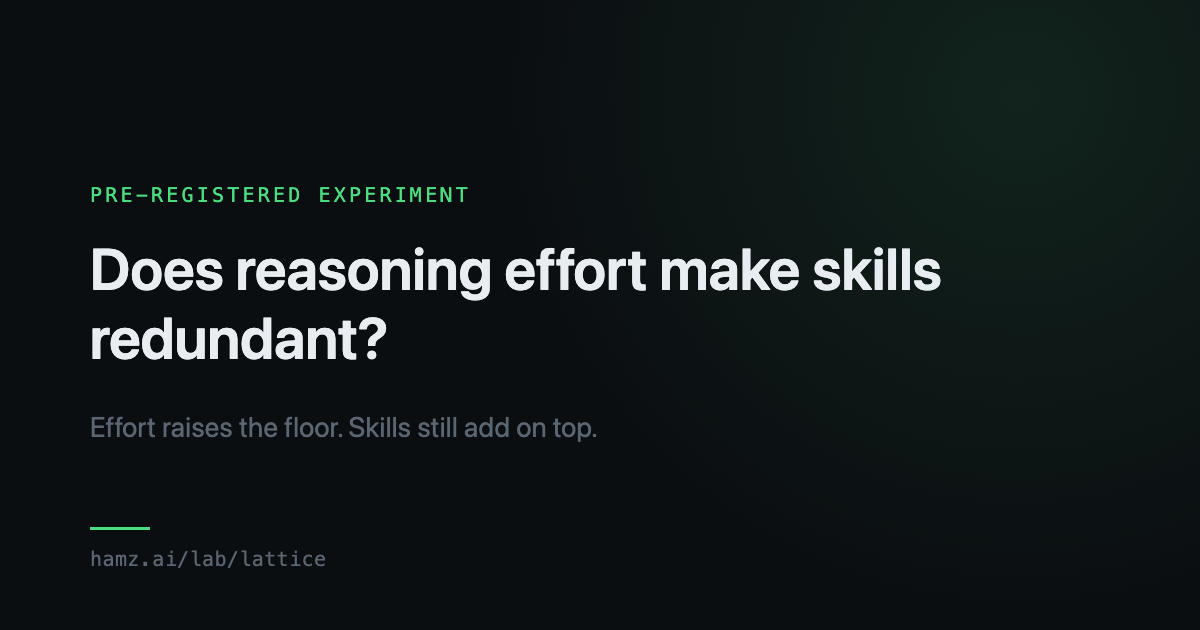
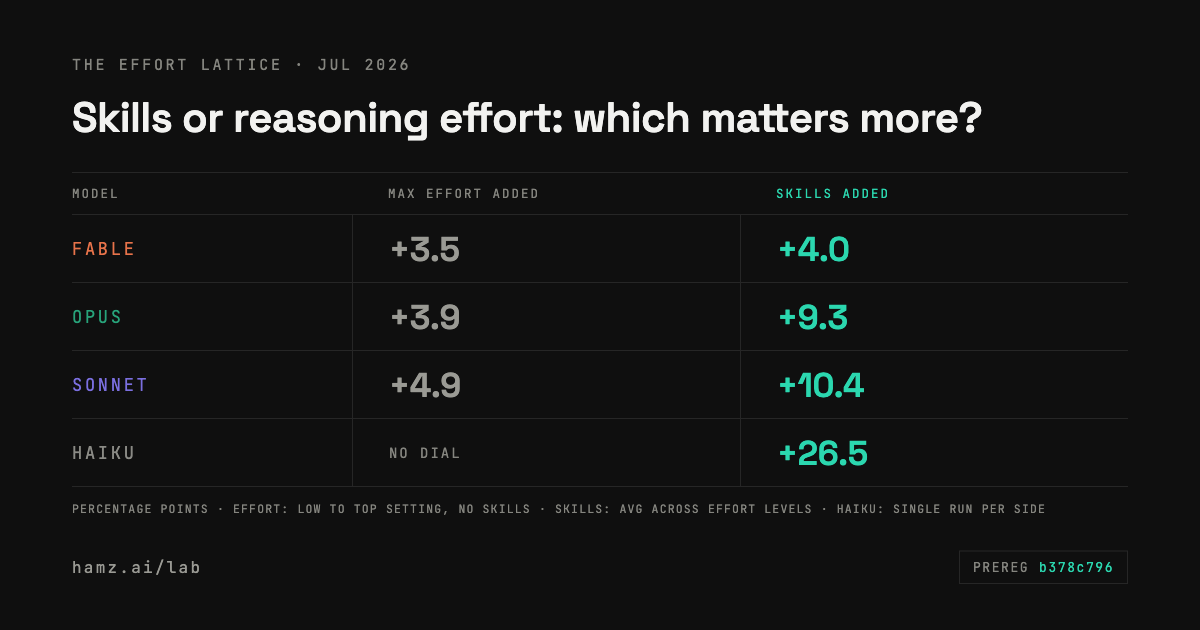
Part C + interview round: OG table image, lineage diagram, builder fills
- New og/lattice.png: the skills-vs-effort table (his pick, option 1) with
  twitter:card meta added on the lattice page.
- Lineage diagram (option A, horizontal flow) inlined on the evidence page's
  honest-accounting section, both themes, aria-labeled.
- Builder: Case playtesting card + 48-intakes shadow-lane stat fill the two
  grid gaps left by the coaching hide; 'Most leaders' paragraph shortened to
  a teaser (lab keeps the full version).
- Lattice: chart-subtitle addendum disclaimer trimmed (full statement stays
  in the table note and methodology spec).

diff --git a/lab/evidence/index.html b/lab/evidence/index.html
@@ -335,6 +335,102 @@
       <p>Two more bounds worth stating. Each task used one cold run and one loaded run, with one judge pass per pair, so the result is directional for this suite; it does not estimate run-to-run variance. And the eight tested skills were a selected subset of the 26 candidates, so the result should not be read as evidence that every candidate would have passed.
       </div>
       <p style="margin-top:32px">The released library is also not a straight copy of what was tested. The honest accounting: I consolidated the 26 repo-specific skills into 15 generalized skills (19 merged down to 9, including 2 that were largely absorbed into other merges; 6 carried over 1:1; 1 dropped as product-specific), plus 2 promoted from a separate personal library, for 17 total.</p>
+      <div style="margin:28px 0 8px">
+<svg class="lin-a" viewBox="0 0 960 376" xmlns="http://www.w3.org/2000/svg" font-family="'JetBrains Mono', monospace" role="img" aria-label="Skill lineage: 26 repo-specific skills consolidated into 15 generalized skills, plus 2 from a personal library, 17 portable skills released. The skills study tested 8 of the 26. The effort lattice tested the released 17.">
+  <style>
+    .lin-a {
+      --bg:#0F0F0F; --raised:#161616; --line:#262626;
+      --ink:#F2F2F0; --dim:#9A9A94; --faint:#85857F; --accent:#2BD7AF;
+    }
+    @media (prefers-color-scheme: light) {
+      .lin-a {
+        --bg:#F7F5F2; --raised:#FFFFFF; --line:#E3E0D9;
+        --ink:#191C1B; --dim:#5C5C56; --faint:#7A7A74; --accent:#05705B;
+      }
+    }
+    [data-theme="dark"] .lin-a {
+      --bg:#0F0F0F; --raised:#161616; --line:#262626;
+      --ink:#F2F2F0; --dim:#9A9A94; --faint:#85857F; --accent:#2BD7AF;
+    }
+    [data-theme="light"] .lin-a {
+      --bg:#F7F5F2; --raised:#FFFFFF; --line:#E3E0D9;
+      --ink:#191C1B; --dim:#5C5C56; --faint:#7A7A74; --accent:#05705B;
+    }
+    .lin-a .num { font-family:'Space Grotesk', sans-serif; font-weight:600; fill:var(--ink); }
+    .lin-a .num-ac { fill:var(--accent); }
+    .lin-a .lab { fill:var(--dim); letter-spacing:1.5px; }
+    .lin-a .lab-f { fill:var(--faint); letter-spacing:1px; }
+    .lin-a .lab-ac { fill:var(--accent); letter-spacing:1.5px; }
+    .lin-a .node { fill:var(--raised); stroke:var(--line); }
+    .lin-a .node-ac { fill:var(--raised); stroke:var(--accent); }
+    .lin-a .flow { stroke:var(--faint); fill:none; stroke-width:1; }
+    .lin-a .arrow { fill:var(--faint); }
+    .lin-a .dlink { stroke:var(--line); stroke-dasharray:3 4; }
+    .lin-a .callout { fill:none; stroke:var(--line); }
+  </style>
+
+  <rect x="0" y="0" width="960" height="376" fill="var(--bg)"/>
+
+  <text x="32" y="40" class="lab-f" font-size="11" letter-spacing="2">SKILL LINEAGE</text>
+
+  <!-- node 26 -->
+  <rect x="32" y="72" width="150" height="132" class="node"/>
+  <text x="107" y="140" class="num" font-size="44" text-anchor="middle">26</text>
+  <text x="107" y="170" class="lab" font-size="9" text-anchor="middle">REPO-SPECIFIC SKILLS</text>
+  <text x="107" y="188" class="lab-f" font-size="8" text-anchor="middle">FROM 2 CODEBASES</text>
+
+  <!-- branches -->
+  <line x1="182" y1="104" x2="462" y2="104" class="flow"/>
+  <polygon points="462,100 470,104 462,108" class="arrow"/>
+  <text x="192" y="94" class="lab" font-size="10">19 MERGED DOWN TO 9</text>
+  <text x="192" y="118" class="lab-f" font-size="8.5">INCL. 2 ABSORBED INTO OTHER MERGES</text>
+
+  <line x1="182" y1="152" x2="462" y2="152" class="flow"/>
+  <polygon points="462,148 470,152 462,156" class="arrow"/>
+  <text x="192" y="144" class="lab" font-size="10">6 CARRIED OVER 1:1</text>
+
+  <line x1="182" y1="192" x2="412" y2="192" class="flow"/>
+  <line x1="412" y1="186" x2="412" y2="198" class="flow"/>
+  <text x="192" y="184" class="lab-f" font-size="10">1 DROPPED &#183; PRODUCT-SPECIFIC</text>
+
+  <!-- node 15 -->
+  <rect x="470" y="72" width="150" height="132" class="node"/>
+  <text x="545" y="140" class="num" font-size="44" text-anchor="middle">15</text>
+  <text x="545" y="170" class="lab" font-size="9" text-anchor="middle">GENERALIZED SKILLS</text>
+  <text x="545" y="188" class="lab-f" font-size="8" text-anchor="middle">9 MERGED + 6 CARRIED</text>
+
+  <!-- +2 joining -->
+  <rect x="608" y="8" width="176" height="52" class="node"/>
+  <text x="630" y="42" class="num" font-size="22">+2</text>
+  <text x="672" y="30" class="lab" font-size="8.5">PROMOTED FROM A</text>
+  <text x="672" y="46" class="lab" font-size="8.5">PERSONAL LIBRARY</text>
+  <line x1="696" y1="60" x2="696" y2="148" class="flow"/>
+
+  <!-- connector 15 to 17 -->
+  <line x1="620" y1="148" x2="762" y2="148" class="flow"/>
+  <polygon points="762,144 770,148 762,152" class="arrow"/>
+
+  <!-- node 17 -->
+  <rect x="770" y="72" width="158" height="132" class="node-ac"/>
+  <text x="849" y="140" class="num num-ac" font-size="46" text-anchor="middle">17</text>
+  <text x="849" y="170" class="lab" font-size="9" text-anchor="middle">PORTABLE SKILLS</text>
+  <text x="849" y="184" class="lab" font-size="9" text-anchor="middle">RELEASED</text>
+
+  <!-- study callouts -->
+  <line x1="107" y1="204" x2="107" y2="252" class="dlink"/>
+  <rect x="32" y="252" width="352" height="88" class="callout"/>
+  <text x="52" y="280" class="lab-ac" font-size="9">THE SKILLS STUDY &#183; JUL 2026</text>
+  <text x="52" y="302" class="lab" font-size="10">A/B TESTED 8 OF THE 26</text>
+  <text x="52" y="320" class="lab-f" font-size="8.5">50 MUST-HITS: 26/50 COLD, 46/50 WITH SKILLS</text>
+
+  <line x1="849" y1="204" x2="849" y2="252" class="dlink"/>
+  <rect x="576" y="252" width="352" height="88" class="callout"/>
+  <text x="596" y="280" class="lab-ac" font-size="9">THE EFFORT LATTICE &#183; JUL 2026</text>
+  <text x="596" y="302" class="lab" font-size="10">TESTED THE RELEASED 17 AS SHIPPED</text>
+  <text x="596" y="320" class="lab-f" font-size="8.5">16 CONDITIONS &#183; 2,652 MARKS JUDGED BLIND</text>
+</svg>
+
+</div>
       <p>That has a consequence worth saying outright. 5 of the 17 released skills trace to A/B-measured sources. The measured deltas attach to the source skills as tested in their home repos, and the released rewrites carry the lineage, not a fresh measurement.</p>
     </div>
   </section>

diff --git a/builder/index.html b/builder/index.html
@@ -260,7 +260,7 @@
       <div class="fcard featured">
         <div class="tag">field guide &rarr;</div>
         <h3><a href="https://www.hamz.ai/designing-agentic-ai/">Designing agentic systems</a></h3>
-        <p>Most leaders meet agentic AI as something to bolt onto the workflow they already run, a faster version of today's process. The bigger move is to redesign the shape of the work around what agents are good at, and that is where the gains compound. What makes it doable is that the shapes you would redesign into are not exotic. They are the ones your organization already runs on, and the most interesting ones might be the shapes it never could.</p>
+        <p>The bigger move with agentic AI is to redesign the shape of the work around what agents are good at, and that is where the gains compound. The field guide shows the shapes to redesign into.</p>
         <p>Four questions, in order: How far do we go? How many agents? What blocks what? Who needs what context?</p>
         <div class="card-links">
           <a href="https://www.hamz.ai/designing-agentic-ai/">Read it &rarr;</a>
@@ -346,6 +346,15 @@
           </div>
         </div>
 
+        <div class="fcard">
+          <div class="tag">teaching</div>
+          <h3><a href="https://www.hamz.ai/case-playtesting/">Case playtesting</a></h3>
+          <p>Before a graduate case draft went in front of real people, I ran it past a simulated room: seventeen persona agents across three model tiers, each voting blind before any discussion.</p>
+          <div class="card-links">
+            <a href="https://www.hamz.ai/case-playtesting/">See the room &rarr;</a>
+          </div>
+        </div>
+
       </div>
     </div>
   </section>
@@ -361,6 +370,7 @@
         <div class="stat"><b>$1,516.56</b><span>total cost of the effort-lattice study, all in &middot; <a href="../lab/lattice/">full write-up &rarr;</a></span></div>
         <div class="stat"><b>2</b><span>production repos I built solo, end to end: <a href="https://lynahealth.ai">Lyna Health</a> and <a href="https://cubicleapp.com/">Cubicle</a></span></div>
         <div class="stat"><b>14</b><span>agents behind the <a href="https://www.hamz.ai/work/aviation-operations/">business-aviation feasibility platform</a>, on Azure AI</span></div>
+        <div class="stat"><b>48</b><span>staging intakes settled a production model swap in one afternoon &middot; <a href="../lab/shadow-lane/">the shadow lane &rarr;</a></span></div>
         <!-- HIDDEN 2026-07-19 per Hamza: temporarily pulled, NOT deleted, restore verbatim when he says.
         <div class="stat"><b>~5</b><span>specialized agents in the <a href="https://www.hamz.ai/work/coaching-platform/">overnight coaching pipeline</a></span></div>
         -->

diff --git a/lab/lattice/index.html b/lab/lattice/index.html
@@ -25,6 +25,8 @@
 <meta property="og:title" content="The effort lattice · hamz.ai / lab">
 <meta property="og:description" content="Skills or reasoning effort: which matters more? A pre-registered lattice across three dialed Claude models at five effort levels each, plus Haiku at its fixed baseline, found the skill advantage held.">
 <meta property="og:url" content="https://www.hamz.ai/lab/lattice/">
+<meta name="twitter:card" content="summary_large_image">
+<meta name="twitter:image" content="https://www.hamz.ai/lab/og/lattice.png">
 <meta property="og:image" content="https://www.hamz.ai/lab/og/lattice.png">
 <script type="application/ld+json">
 {
@@ -597,7 +599,7 @@ document.documentElement.classList.add('js');
 
       <div class="exhibit" id="matrix-table">
         <div class="ex-title" style="text-align:center">Scores with and without the skills, across the whole grid</div>
-        <p class="ex-sub" style="text-align:center">Share of checklist items hit, on the 17 tasks the confirmatory setups completed (the added-later Fable-max addendum completed 16 of 17). The highlighted column is what installing the skills added, in percentage points.</p>
+        <p class="ex-sub" style="text-align:center">Share of checklist items hit, on the 17 tasks the confirmatory setups completed (the added-later Fable-max addendum, on its own 16-task basis). The highlighted column is what installing the skills added, in percentage points.</p>
         <div class="mini-card" style="max-width:620px;margin:0 auto 28px">
           <div class="ct">What effort added on its own</div>
           <p>Effort alone, low to high: <strong title="Fable's low-to-high range without skills, the pre-registered confirmatory pair. Its max cell was completed separately and added later as an addendum, and stays outside this pair.">Fable +3.5</strong>, <strong>Opus +3.9</strong>, <strong>Sonnet +4.9</strong> percentage points, straight down the table's without-skills column.</p>
